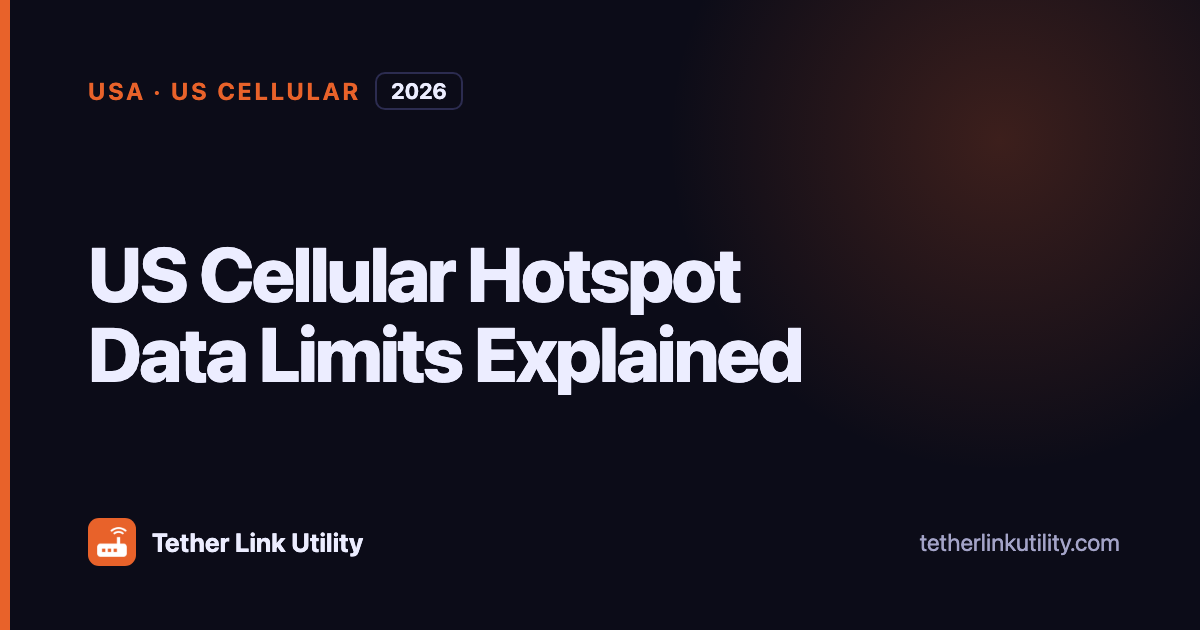
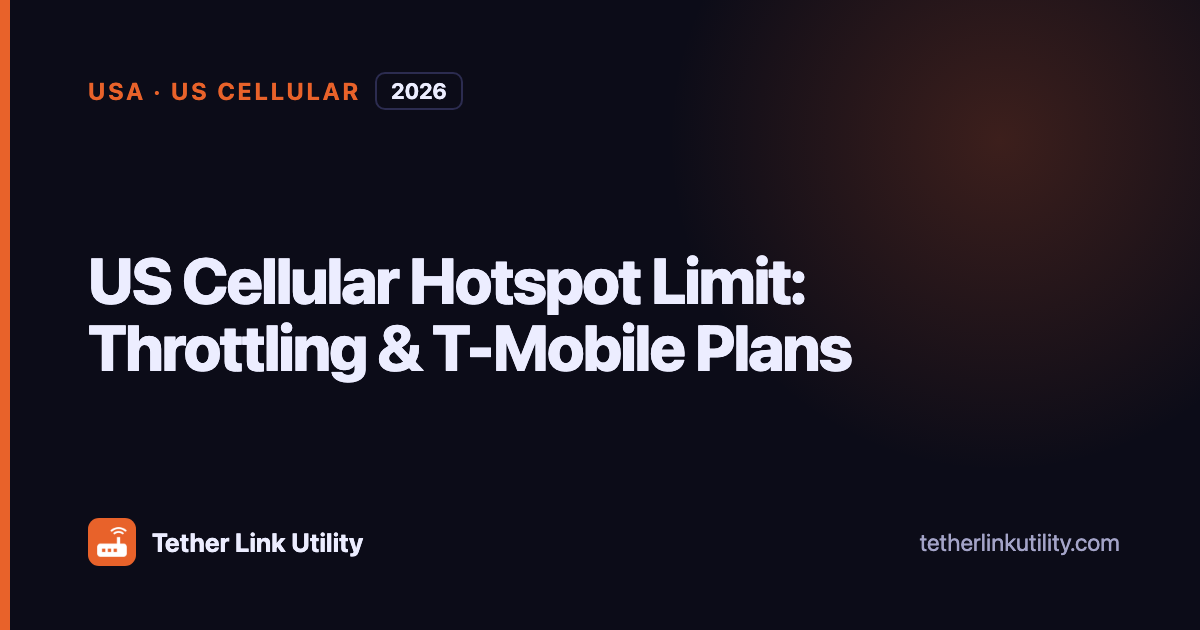
Blog: expand US Cellular hotspot post with short answer, T-Mobile update, sharing options and FAQ

Changed region(s): [[0.0617, 0.3921, 0.7092, 0.6333]]

diff --git a/src/blog/us-cellular-hotspot-data-cap.html b/src/blog/us-cellular-hotspot-data-cap.html
@@ -1,62 +1,93 @@
 ---
-title: "US Cellular Hotspot Data Limits Explained (2026)"
-description: "How hotspot data works on US Cellular (now part of T-Mobile) plans, how to check your remaining hotspot data, and your official options."
+title: "US Cellular Hotspot Limit 2026: Throttling &amp; T-Mobile Plans"
+description: "Hit your US Cellular hotspot limit? Hotspot slows until your cycle resets. What changed after T-Mobile bought UScellular, how to check usage and options."
+ogTitle: "US Cellular Hotspot Limit 2026: Throttling &amp; T-Mobile Plans"
+ldHeadline: "US Cellular Hotspot Limit 2026: Throttling & T-Mobile Plans"
 published: "2026-09-23"
-modified: "2026-09-26"
+modified: "2026-10-05"
 region: "USA"
 carrier: "US Cellular"
 quick:
-  checked: "Sep 2026"
+  checked: "Oct 2026"
   rows:
-    - { k: "Hotspot limit", v: "A set amount of <b>high-speed hotspot data</b> on unlimited tiers, varies by plan. On prepaid, hotspot draws from the plan's overall high-speed data." }
-    - { k: "After the limit", v: "Hotspot speed is reduced for the rest of the billing cycle. On prepaid, the whole line moves to a slower speed." }
-    - { k: "Plans", v: "Now part of T-Mobile. Legacy UScellular plans keep their own rules, T-Mobile plans follow T-Mobile's allowances." }
-    - { k: "How to check", v: "UScellular account (or T-Life app) &rarr; usage details for your line" }
-    - { k: "Official options", v: "Hotspot add-on &middot; T-Mobile plan with a larger hotspot allowance &middot; Wait for the billing cycle reset &middot; Ask support" }
+    - { k: "Hotspot limit", v: "Unlimited tiers generally include a set amount of <b>high-speed hotspot data</b>, which varies by plan. On prepaid, hotspot draws from the plan's overall high-speed data." }
+    - { k: "When it runs out", v: "Hotspot keeps working at a <b>reduced speed</b> until the billing cycle resets. On prepaid, the whole line slows down." }
+    - { k: "Owner today", v: "T-Mobile closed its purchase of UScellular's wireless operations on <b>August 1, 2025</b>. uscellular.com now redirects to t-mobile.com." }
+    - { k: "Your plan", v: "Legacy UScellular plans keep their own rules for now. If you moved to a T-Mobile plan, T-Mobile's hotspot allowances apply." }
+    - { k: "Options", v: "Check usage &middot; Hotspot add-on or bigger plan &middot; Wait for the reset &middot; Wi-Fi &middot; Ask support" }
+faq:
+  - { q: "What is the US Cellular hotspot limit?", a: "It depends on your plan. UScellular's unlimited tiers have generally included a separate amount of high-speed hotspot data that varies by plan, while prepaid plans draw hotspot use from the plan's overall high-speed data. Your account's plan details show the number that applies to you." }
+  - { q: "What happens when my US Cellular hotspot data runs out?", a: "On unlimited tiers, hotspot generally keeps working at a reduced speed until your billing cycle resets, while data used on the phone itself is not affected. On prepaid plans, the whole line moves to a slower speed once the high-speed data is used." }
+  - { q: "Is US Cellular part of T-Mobile now?", a: "Yes. T-Mobile announced on August 1, 2025 that it had closed its acquisition of UScellular's wireless operations. In October 2026, uscellular.com redirects to t-mobile.com." }
+  - { q: "Do I have to switch to a T-Mobile plan?", a: "When the deal closed, T-Mobile said UScellular customers stay on their existing plans with no changes for now, and can choose to move to a T-Mobile plan as networks and systems are integrated. Check your account or ask support what applies to your line today." }
+  - { q: "Why does my hotspot not turn on at all?", a: "On lines or plans without hotspot, the feature may not turn on, or connected devices may not get data. This is usually a plan setting, not a fault with the phone. Ask support whether hotspot is included on your line." }
+  - { q: "Does data shared with another device count toward my plan?", a: "Yes. Whether you use the built-in hotspot, a USB cable or an app that shares your connection over Wi-Fi, the data comes from your mobile line and counts toward your plan. Check your plan's tethering terms before sharing." }
 sitemap:
   order: 11
-  lastmod: "2026-09-26"
+  lastmod: "2026-10-05"
   changefreq: "monthly"
   priority: "0.6"
 index:
   order: 9
-  excerpt: "How hotspot data works on US Cellular plans now that it is part of T-Mobile, how to check your usage, and your official options."
+  excerpt: "What the US Cellular hotspot limit is, what happens when it runs out, what changed after the T-Mobile deal, and your options."
 llms:
   order: 12
-  text: "US Cellular Hotspot Data Limits Explained (2026)"
+  text: "US Cellular Hotspot Limit 2026: Throttling & T-Mobile Plans"
 ---
     <div class="page-eyebrow">Blog</div>
-    <h1>US Cellular Hotspot Data Limits Explained (2026)</h1>
-    <div class="post-meta">Published September 23, 2026 &middot; Updated September 26, 2026</div>
+    <h1>US Cellular Hotspot Limit 2026: Throttling &amp; T-Mobile Plans</h1>
+    <div class="post-meta">Published September 23, 2026 &middot; Updated October 5, 2026</div>
 
-    <p>US Cellular's unlimited plans follow a pattern common among US carriers: data used directly on the phone is unlimited, while mobile hotspot data is tracked as its own, smaller allowance.</p>
+    <p><strong>Short answer:</strong> on most US Cellular unlimited plans, data used on the phone itself is unlimited, but mobile hotspot has its own, smaller high-speed allowance. When that allowance is used up, hotspot does not stop. It keeps working at a much lower speed until your billing cycle resets. On prepaid plans, hotspot shares the plan's high-speed data, and once that is gone the whole line slows down. Since August 2025, UScellular's wireless business belongs to T-Mobile, so the exact rules depend on whether you are still on a legacy UScellular plan or have moved to a T-Mobile plan.</p>
 
-    <h2>US Cellular is now part of T-Mobile</h2>
-    <p>T-Mobile completed its purchase of UScellular's wireless operations (customers, stores and part of its spectrum) in August 2025. UScellular no longer signs up new customers on its own plans; new sign-ups go to T-Mobile. Existing UScellular customers were told they could keep their current plans for now or move to a T-Mobile plan without switching costs. In practice, the hotspot rules that apply to you depend on which plan you are on today: a legacy UScellular plan or a T-Mobile plan. <em>(Checked September 2026. Plan transitions are ongoing and can change.)</em></p>
+    <h2>What the US Cellular hotspot limit is</h2>
+    <p>UScellular's unlimited tiers have generally included a set amount of high-speed hotspot data, and the amount varies by plan. That allowance is separate from the data you use on the phone itself, so it is possible to have plenty of phone data left while hotspot is already slow. On prepaid plans, hotspot use generally draws from the plan's overall high-speed data instead of a separate bucket.</p>
+    <p><strong>Plan names and allowances have changed over the years, and many people are now in the middle of the move to T-Mobile. The number shown in your own account is the one that applies to you.</strong></p>
 
-    <h2>What the hotspot limit is</h2>
-    <p>US Cellular's unlimited tiers generally include a set amount of high-speed hotspot data, and the amount varies by plan. Once that allowance is used, hotspot speed is reduced for the rest of the billing cycle, while on-device data keeps working as before. On prepaid plans, hotspot use generally draws from the plan's overall high-speed data, and once that is used, the whole line moves to a slower speed. <strong>Exact allowances and rules differ by plan, so the terms shown in your UScellular or T-Mobile account are the ones that apply to you.</strong> If you moved to a T-Mobile plan, see <a href="/blog/t-mobile-hotspot-data-limit.html">our T-Mobile hotspot guide</a>.</p>
+    <h2>What happens when your hotspot data runs out</h2>
+    <ul>
+      <li><strong>Unlimited plans:</strong> hotspot keeps working, but at a reduced speed until the next billing cycle. Browsing on the phone itself is not affected.</li>
+      <li><strong>Prepaid plans:</strong> once the high-speed data is used, the whole line (phone and hotspot) moves to a slower speed until the plan renews.</li>
+      <li><strong>Plans without hotspot:</strong> the hotspot may not turn on at all, or connected devices may not get data. This is usually a plan setting rather than a fault, so ask support whether hotspot is included on your line.</li>
+    </ul>
+    <p>A slowed hotspot is usually fine for email and messaging, but video calls, large downloads and system updates on a laptop will feel very slow. For background on why carriers slow hotspot traffic, see <a href="/blog/understanding-carrier-hotspot-throttling.html">why is my hotspot slow?</a></p>
 
-    <h2>If hotspot does not turn on at all</h2>
-    <p>On plans or lines that do not include hotspot, the phone's hotspot feature may not turn on, or connected devices may not get data. This is usually a plan setting rather than a technical fault. Contact customer support to confirm whether hotspot is included on your line and how to add it.</p>
+    <h2>US Cellular after the T-Mobile deal</h2>
+    <p>T-Mobile announced on <strong>August 1, 2025</strong> that it had closed its acquisition of UScellular's wireless operations. In the same announcement, T-Mobile said UScellular customers stay on their existing plans with no changes for now, and can choose to move to one of T-Mobile's plans as networks and systems are integrated. UScellular business accounts are being moved to T-Mobile for Business, and the uscellular.com website now redirects to t-mobile.com.</p>
+    <p>What this means for your hotspot:</p>
+    <ul>
+      <li><strong>Still on a legacy UScellular plan:</strong> your plan's original hotspot allowance and rules apply until you change plans.</li>
+      <li><strong>Moved to a T-Mobile plan:</strong> T-Mobile's hotspot allowances apply. See <a href="/blog/t-mobile-hotspot-data-limit.html">our T-Mobile hotspot guide</a> for how they work and how to check them in the T-Life app.</li>
+      <li><strong>Not sure which one you have:</strong> sign in to your account or ask support, since plan names changed during the transition.</li>
+    </ul>
+    <p><em>(Checked October 2026 against T-Mobile's announcement and its UScellular pages. The transition is ongoing, so details can change.)</em></p>
 
     <h2>How to check your hotspot data</h2>
     <ol class="steps">
-      <li><strong>Your carrier account</strong> Sign in to your UScellular account (or the T-Life app if you moved to T-Mobile) and open the usage details for your line.</li>
-      <li><strong>Your phone's data counter</strong> Android's hotspot or data usage screen, or <strong>Settings &rarr; Cellular</strong> on iPhone, shows how much connected devices used.</li>
-      <li><strong>Customer support</strong> Ask which hotspot allowance applies to your legacy plan, since plan names and terms have changed during the transition.</li>
+      <li><strong>Your carrier account</strong> Sign in to your account (or the T-Life app if you moved to T-Mobile) and open the usage details for your line. Look for a separate hotspot line item, not just total data.</li>
+      <li><strong>Your phone's data counter</strong> On Android, the hotspot or data usage screen shows how much connected devices used. On iPhone, go to <strong>Settings &rarr; Cellular</strong> and look for Personal Hotspot.</li>
+      <li><strong>Your billing date</strong> Note when your cycle resets, because that is when full hotspot speed comes back.</li>
+      <li><strong>Customer support</strong> Ask which hotspot allowance applies to your plan if your account does not show it clearly.</li>
     </ol>
-    <p>For other carriers, see <a href="/blog/how-to-check-if-hotspot-is-unlimited.html">how to check if your hotspot is really unlimited</a>.</p>
+    <p>For a general checklist that works with any carrier, see <a href="/blog/how-to-check-if-hotspot-is-unlimited.html">how to check if your hotspot is really unlimited</a>.</p>
 
-    <h2>Official options</h2>
+    <h2>Your options when hotspot runs low</h2>
     <ol>
-      <li><strong>Check whether your plan offers a hotspot add-on</strong>, or whether a T-Mobile plan with a larger hotspot allowance suits you better.</li>
-      <li><strong>Wait for your billing cycle to reset</strong>, and use Wi-Fi for large downloads in the meantime.</li>
-      <li><strong>Ask support to confirm</strong> the current hotspot terms before changing plans.</li>
+      <li><strong>Ask about a hotspot add-on or a bigger plan.</strong> If you tether every month, a plan with a larger hotspot allowance (including a T-Mobile plan, if you are eligible to move) may cost less than living with slow speeds.</li>
+      <li><strong>Wait for the reset.</strong> Use Wi-Fi for updates, backups and large downloads until your billing cycle starts again.</li>
+      <li><strong>Cut background data on the other device.</strong> Pause cloud sync, automatic updates and video autoplay on the laptop or tablet while it is connected to your phone.</li>
+      <li><strong>Confirm the terms first.</strong> Ask support how hotspot and tethering work on your plan before you change plans or rely on it for work.</li>
     </ol>
 
-    <h2>Sharing mobile data between your own devices</h2>
-    <p>If you want to share your phone's mobile data with a laptop or another phone, Tether Link Utility is an Android app that does this through a local SOCKS5 proxy. Data used by connected devices still counts toward your mobile plan, so check your carrier's tethering terms. For a comparison of the general methods (Wi-Fi hotspot, USB, Bluetooth and SOCKS5 proxy), see <a href="/blog/best-ways-to-bypass-hotspot-throttling.html">5 ways to share your phone's internet with a laptop</a>.</p>
+    <h2>Sharing your phone's connection with another device</h2>
+    <p>There are several ways to share an Android phone's mobile data with a laptop, tablet or another phone: the built-in Wi-Fi hotspot, a USB cable, Bluetooth, or an app that shares the connection as a proxy over Wi-Fi. Each one has trade-offs in speed, battery use and setup. We compare them in <a href="/blog/best-ways-to-bypass-hotspot-throttling.html">5 ways to share your phone's internet with another device</a>.</p>
+    <p>Tether Link Utility is an Android app for the proxy approach: it shares your phone's mobile data with your other devices through a local SOCKS5 proxy, set up with a QR code. Whatever method you use, data used by the connected device still comes from your mobile line and counts toward your plan, so check your plan's tethering terms first. Setup guides: <a href="/blog/share-mobile-data-android-to-android-qr.html">Android to Android with a QR code</a> and <a href="/blog/socks5-proxy-setup-windows-macos-ios.html">SOCKS5 proxy on Windows, macOS and iOS</a>.</p>
+
+    <h2>Sources</h2>
+    <ul>
+      <li><a href="https://www.t-mobile.com/news/business/t-mobile-closes-uscellular-acquisition" target="_blank" rel="noopener">T-Mobile Newsroom: T-Mobile Completes UScellular Deal (August 1, 2025)</a> (checked Oct 2026)</li>
+      <li><a href="https://www.t-mobile.com/business/account-services/uscellular" target="_blank" rel="noopener">T-Mobile for Business: UScellular accounts</a> (checked Oct 2026)</li>
+    </ul>
 
     <div class="cta-box">
       <h3>Tether Link Utility</h3>
